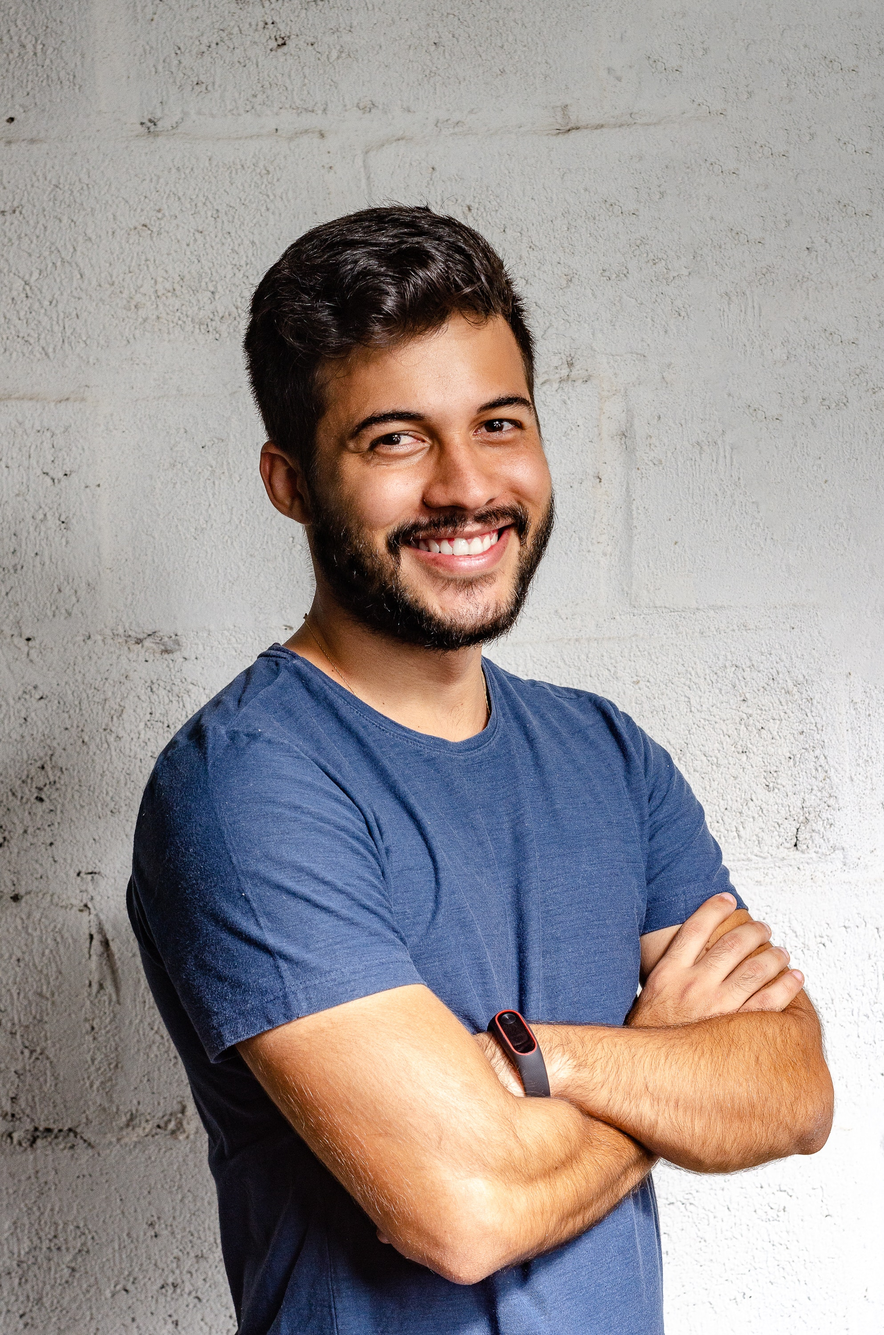
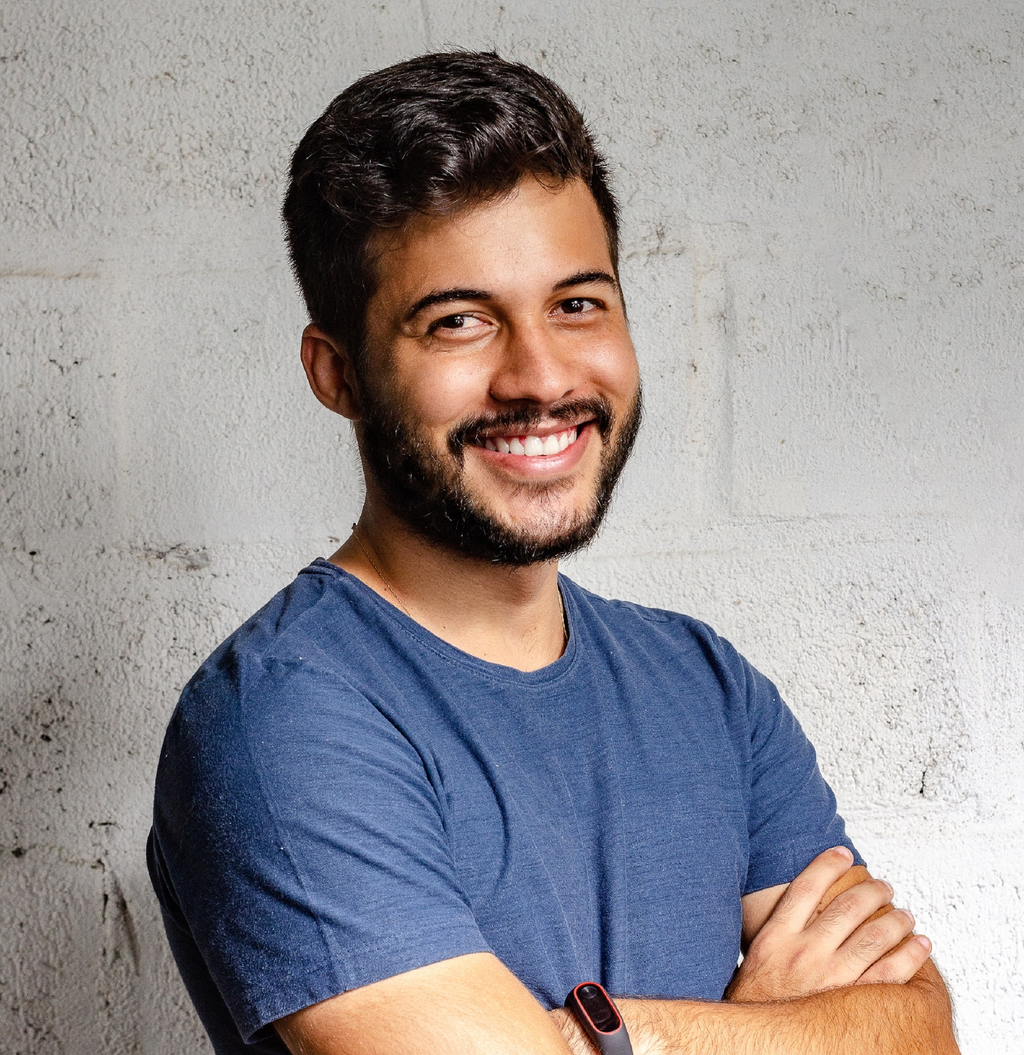
Nav, Hero Image, and Speakers complete

diff --git a/index.html b/index.html
@@ -8,18 +8,97 @@
     <!-- Bootstrap CSS -->
     <link href="https://cdn.jsdelivr.net/npm/bootstrap@5.1.0/dist/css/bootstrap.min.css" rel="stylesheet" integrity="sha384-KyZXEAg3QhqLMpG8r+8fhAXLRk2vvoC2f3B09zVXn8CA5QIVfZOJ3BCsw2P0p/We" crossorigin="anonymous">
     <link rel="stylesheet" href="css/style.css">
-    <title>Hello, world!</title>
+    <link rel="preconnect" href="https://fonts.googleapis.com">
+    <link rel="preconnect" href="https://fonts.gstatic.com" crossorigin>
+    <link href="https://fonts.googleapis.com/css2?family=Galada&display=swap" rel="stylesheet">
+    <title>Meet Moqups</title>
   </head>
   <body class="m-0 p-0 g-0"> 
+    <!-- NavBar -->
+    <nav class="navbar p-2 navbar-expand-lg navbar-light bg-light">
+      <div class="container-fluid">
+        <span class="navbar-brand" style="font-family: 'Galada', cursive;">Moqups</span>
+        <div class="collapse navbar-collapse justify-content-end" id="navbarNav">
+          <ul class="navbar-nav">
+            <li class="nav-item">
+              <a class="nav-link" aria-current="page" href="#speakers">Speakers</a>
+            </li>
+            <li class="nav-item">
+              <a class="nav-link" href="#">Tickets</a>
+            </li>
+            <li class="nav-item">
+              <a class="nav-link" href="#">Venue</a>
+            </li>
+          </ul>
+        </div>
+      </div>
+    </nav>
+    <!-- Hero Image -->
     <div class="container-fluid">
       <div class="row m-0 heroimage">
         <div class="column d-flex flex-column align-items-center justify-content-center text-secondary">
-          <h1 class="display-2 fw-bold">Hello World</h1>
-          <p>This is a simple hero unit, a simple jumbotron-style component for calling extra attention to featured content or information.</p>
-          <a class="btn btn-primary btn-lg" href="#" role="button">Learn more</a>
+          <h1 class="display-2 fw-bold pb-3">Meet Moqups</h1>
+          <p class="pb-3 fs-4">Come see what we can do for you!</p>
+          <a class="btn btn-dark btn-lg" href="#" role="button">Get The Ticket</a>
         </div>
       </div>
     </div>
+    <!-- Speakers Header -->
+    <div class="container-fluid pt-5">
+      <div class="row pt-5 text-secondary d-flex flex-column align-items-center justify-content-center">
+        <div class="col-4">
+          <h1 class="display-2 fw-bold text-center" id="speakers">The Speakers</h1>
+        </div>
+        <div class="col-4 text-secondary d-flex flex-column align-items-center justify-content-center text-center">  
+          <p class="fs-4 pt-3 pb-5">Members of our design team are here to demonstrate how Moqups can take your business to the next level</p>
+        </div>
+      </div>
+    </div>
+
+    <!-- SpeakerCards -->
+    <div class="container-fluid">
+      <div class="row text-secondary">
+        <div class="column d-flex justify-content-around">
+          <div class="card" style="width: 18rem;">
+            <img src="img/RubyJennings.jpg" class="card-img-top">
+            <div class="card-body">
+              <h5 class="card-title fw-bold fs-2">Ruby Jennings</h5>
+              <p class="card-text fs-5">Product Manager at Moqups. Runner, parent, and coffee lover.</p>
+              <br>
+              <p class="card-text fs-5">rjennings@email</p>
+            </div>
+          </div>
+          <div class="card" style="width: 18rem;">
+            <img src="img/LeonHanson.jpg" class="card-img-top">
+            <div class="card-body">
+              <h5 class="card-title fw-bold fs-2">Leon Hanson</h5>
+              <p class="card-text fs-5">Sales Manager at Moqups. Runner, parent, and coffee lover.</p>
+              <br>
+              <p class="card-text fs-5">lhanson@email</p>
+            </div>
+          </div>
+          <div class="card" style="width: 18rem;">
+            <img src="img/MeghanStone.jpg" class="card-img-top">
+            <div class="card-body">
+              <h5 class="card-title fw-bold fs-2">Meghan Stone</h5>
+              <p class="card-text fs-5">Marketing Specialist at Moqups. Runner, parent, and coffee lover.</p>
+              <br>
+              <p class="card-text fs-5">mstone@email</p>
+            </div>
+          </div>
+          <div class="card" style="width: 18rem;">
+            <img src="img/WilliePerkins.jpg" class="card-img-top">
+            <div class="card-body">
+              <h5 class="card-title fw-bold fs-2">Willie Perkins</h5>
+              <p class="card-text fs-5">UX Engineer at Moqups. Runner, parent, and coffee lover.</p>
+              <br>
+              <p class="card-text fs-5">wperkins@email</p>
+            </div>
+          </div>
+        </div>
+      </div>
+    </div>
+    <hr class="mt-5 mb-5 ms-3 me-3" style="height:2px;border-width:0;color:gray;background-color:gray">
     <!-- Option 1: Bootstrap Bundle with Popper -->
     <script src="https://cdn.jsdelivr.net/npm/bootstrap@5.1.0/dist/js/bootstrap.bundle.min.js" integrity="sha384-U1DAWAznBHeqEIlVSCgzq+c9gqGAJn5c/t99JyeKa9xxaYpSvHU5awsuZVVFIhvj" crossorigin="anonymous"></script>
   </body>
